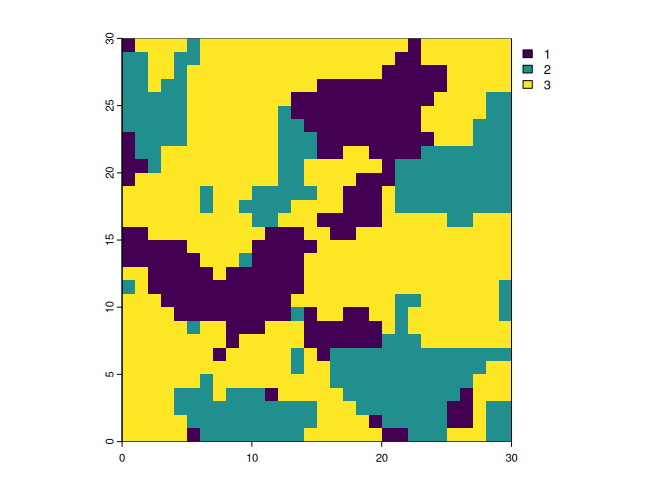
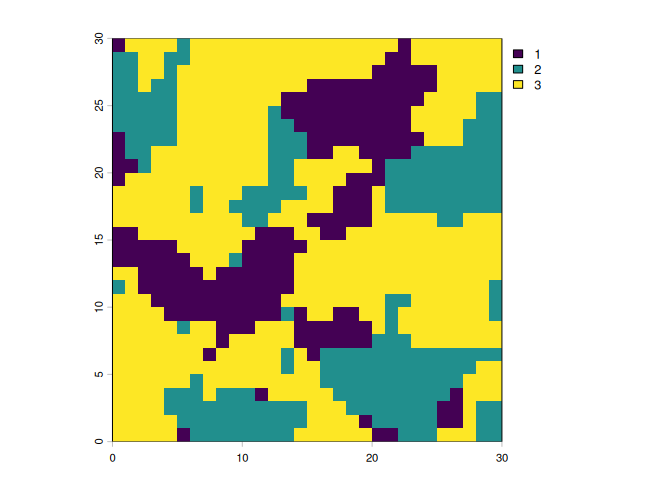
Re-build README.md

diff --git a/README.md b/README.md
@@ -3,14 +3,14 @@
 
 <!-- README.md is generated from README.Rmd. Please edit that file -->
 
-README last updated: 2025-02-11
+README last updated: 2026-09-17
 
 <!-- Start Badges -->
 
-| CI                                                                                                                                                                                                           | Development                                                                                                                     | CRAN                                                                                                                                     | License                                                                                                         |
-|--------------------------------------------------------------------------------------------------------------------------------------------------------------------------------------------------------------|---------------------------------------------------------------------------------------------------------------------------------|------------------------------------------------------------------------------------------------------------------------------------------|-----------------------------------------------------------------------------------------------------------------|
-| [![R-CMD-check](https://github.com/r-spatialecology/landscapemetrics/actions/workflows/R-CMD-check.yaml/badge.svg)](https://github.com/r-spatialecology/landscapemetrics/actions/workflows/R-CMD-check.yaml) | [![Lifecycle](https://img.shields.io/badge/Lifecycle-stable-brightgreen.svg)](https://lifecycle.r-lib.org/articles/stages.html) | [![CRAN status](https://www.r-pkg.org/badges/version/landscapemetrics)](https://cran.r-project.org/package=landscapemetrics)             | [![License: GPL v3](https://img.shields.io/badge/License-GPLv3-blue.svg)](https://www.gnu.org/licenses/gpl-3.0) |
-| [![Codecov](https://codecov.io/gh/r-spatialecology/landscapemetrics/graph/badge.svg)](https://app.codecov.io/gh/r-spatialecology/landscapemetrics)                                                           | [![Project Status](http://www.repostatus.org/badges/latest/active.svg)](https://www.repostatus.org/)                            | [![CRAN downloads](https://cranlogs.r-pkg.org/badges/grand-total/landscapemetrics)](https://cran.r-project.org/package=landscapemetrics) | [![DOI](https://img.shields.io/badge/DOI-10.1111/ecog.04617-yellow.svg)](https://doi.org/10.1111/ecog.04617)    |
+| CI | Development | CRAN | License |
+|----|----|----|----|
+| [![R-CMD-check](https://github.com/r-spatialecology/landscapemetrics/actions/workflows/R-CMD-check.yaml/badge.svg)](https://github.com/r-spatialecology/landscapemetrics/actions/workflows/R-CMD-check.yaml) | [![Lifecycle](https://img.shields.io/badge/Lifecycle-stable-brightgreen.svg)](https://lifecycle.r-lib.org/articles/stages.html) | [![CRAN status](https://www.r-pkg.org/badges/version/landscapemetrics)](https://cran.r-project.org/package=landscapemetrics) | [![License: GPL v3](https://img.shields.io/badge/License-GPLv3-blue.svg)](https://www.gnu.org/licenses/gpl-3.0) |
+| [![Codecov](https://codecov.io/gh/r-spatialecology/landscapemetrics/graph/badge.svg)](https://app.codecov.io/gh/r-spatialecology/landscapemetrics) | [![Project Status](http://www.repostatus.org/badges/latest/active.svg)](https://www.repostatus.org/) | [![CRAN downloads](https://cranlogs.r-pkg.org/badges/grand-total/landscapemetrics)](https://cran.r-project.org/package=landscapemetrics) | [![DOI](https://img.shields.io/badge/DOI-10.1111/ecog.04617-yellow.svg)](https://doi.org/10.1111/ecog.04617) |
 
 <!-- End Badges -->
 
@@ -41,6 +41,7 @@ following Software note, substituting the version of the application
 that you used for ‘v0.0’:
 
 <p>
+
 <i> Hesselbarth, M.H.K., Sciaini, M., With, K.A., Wiegand, K., Nowosad,
 J. 2019. landscapemetrics: an open‐source R tool to calculate landscape
 metrics. Ecography, 42: 1648-1657 (v0.0). </i>
@@ -124,7 +125,7 @@ landscape <- terra::rast(landscapemetrics::landscape)
 plot(landscape)
 ```
 
-<img src="man/figures/README-unnamed-chunk-2-1.png" width="75%" style="display: block; margin: auto;" />
+<img src="man/figures/README-unnamed-chunk-2-1.png" alt="" width="75%" style="display: block; margin: auto;" />
 
 ``` r
 
